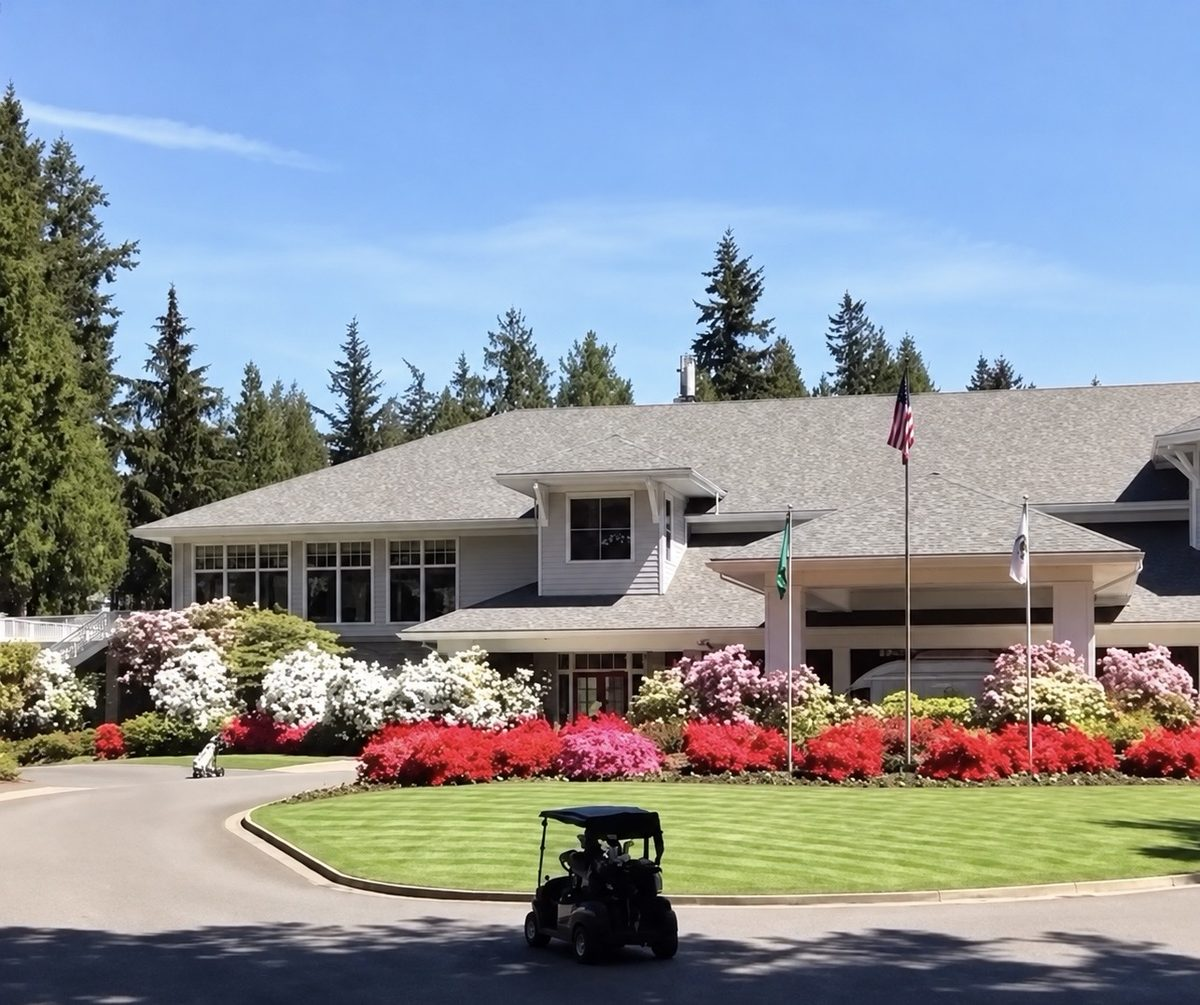
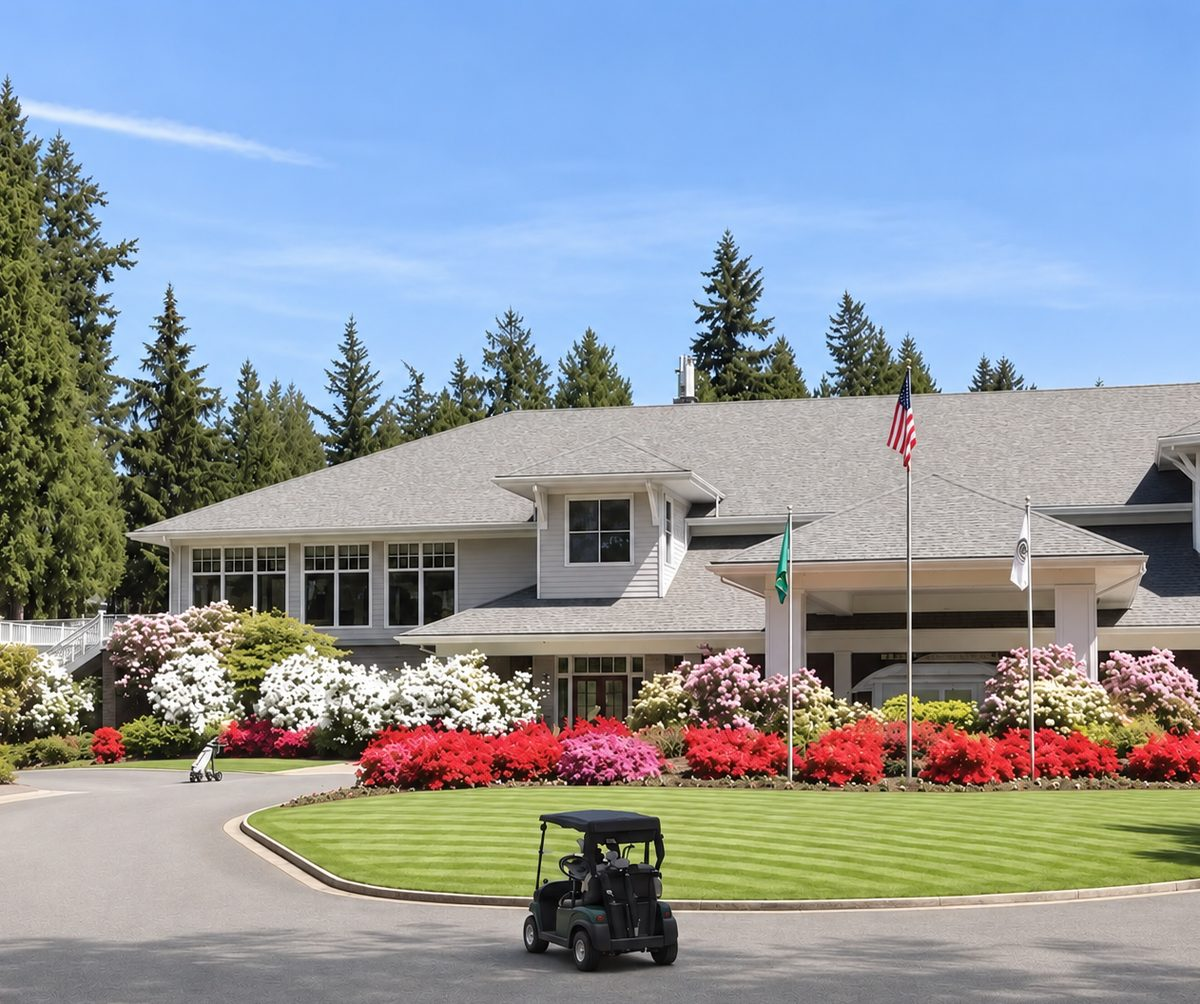
Replace Sahalee clubhouse photo (#10)
* About section: text left, photo right on desktop

Move the aerial photo out of the bio column so desktop shows heading,
bio and facts on the left with the photo filling the right column.
Mobile order (heading, bio, photo, facts) is unchanged.

Claude-Session: https://claude.ai/code/session_01QgedHbu63Wp9SgYGAPELfX

* Sahalee section: full-width copy, photo and record side by side on desktop

Heading and paragraphs span the full width; the clubhouse photo sits
below on the left with the Sahalee record table to its right. Mobile
order is unchanged.

Claude-Session: https://claude.ai/code/session_01QgedHbu63Wp9SgYGAPELfX

* Where she works: intro line under heading on desktop

Stack the intro line below the heading so it runs across above the
neighborhood tiles. Mobile is unchanged.

Claude-Session: https://claude.ai/code/session_01QgedHbu63Wp9SgYGAPELfX

* How she works: shorten sellers intro so the three lists line up

Claude-Session: https://claude.ai/code/session_01QgedHbu63Wp9SgYGAPELfX

* Move community section below FAQ so dark bands don't stack

Claude-Session: https://claude.ai/code/session_01QgedHbu63Wp9SgYGAPELfX

* Remove Compass Broker eyebrow line from the hero

Claude-Session: https://claude.ai/code/session_01QgedHbu63Wp9SgYGAPELfX

* Make Where she works a dark band to break up the white sections

Claude-Session: https://claude.ai/code/session_01QgedHbu63Wp9SgYGAPELfX

* Hero heading: Eastside & Sammamish
[…]

diff --git a/index.html b/index.html
@@ -544,7 +544,7 @@
         <p class="lede">Sahalee Country Club has hosted the PGA Championship, the U.S. Senior Open and the Women's PGA Championship. The homes around its 27 holes rarely come to market. When they do, sellers call Ericka more than anyone else.</p>
         <p class="lede">She knows which lots back onto which holes, how membership transfers work, and always has buyers who are waiting for the opportunity to live on their home course.</p>
       </div>
-      <figure class="about-photo"><img src="/images/sahalee-clubhouse.jpg" width="1200" height="1005" alt="Sahalee Country Club clubhouse with blooming azaleas and rhododendrons along the entry drive" loading="lazy"></figure>
+      <figure class="about-photo"><img src="/images/sahalee-clubhouse.jpg" width="1200" height="1004" alt="Sahalee Country Club clubhouse with blooming azaleas and rhododendrons along the entry drive" loading="lazy"></figure>
       <div class="scorecard">
         <table>
           <caption>Ericka's Sahalee record</caption>
